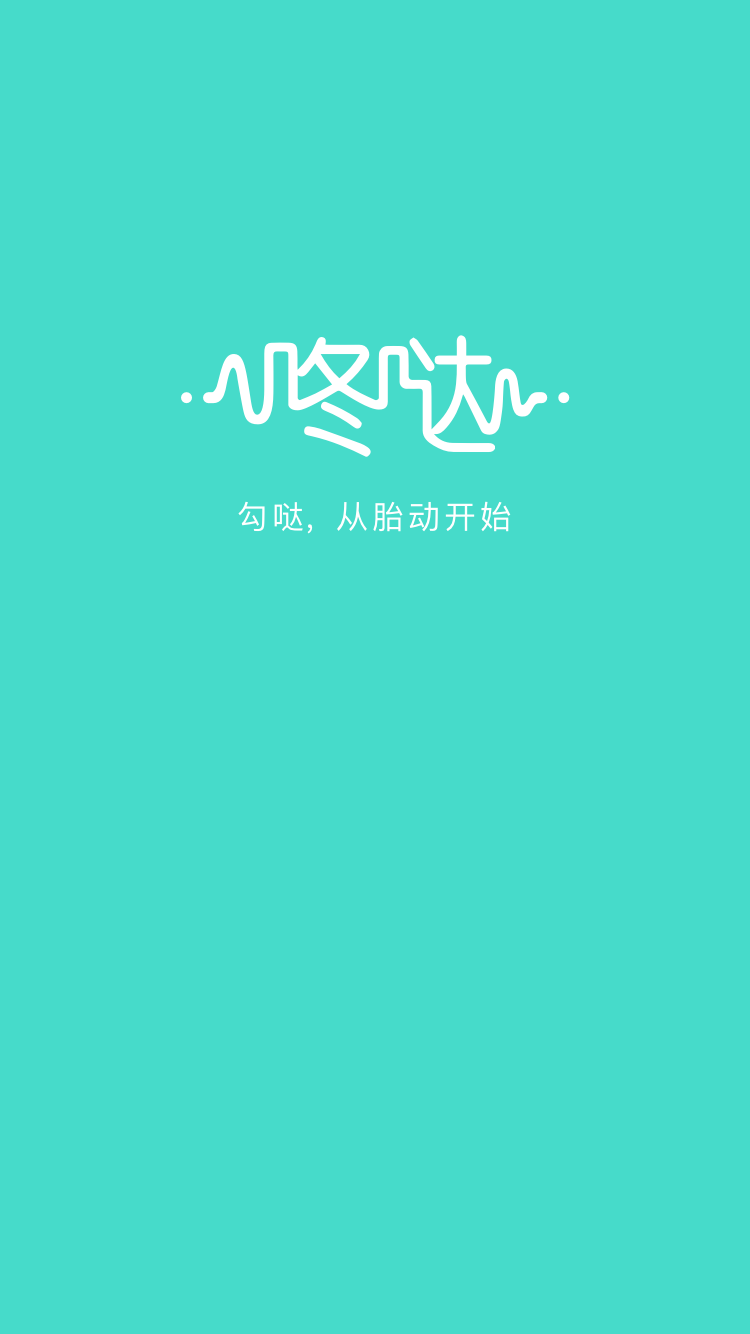
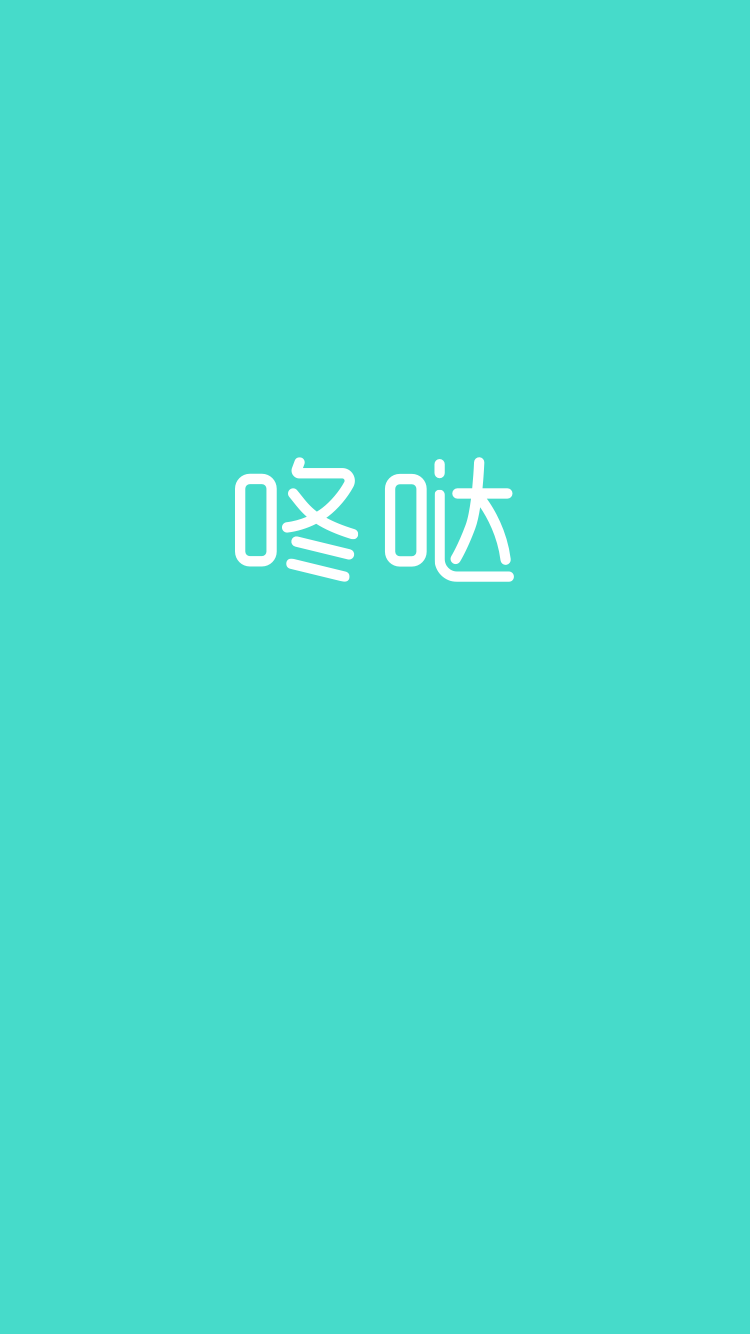
BUG: 667 首页角色名

Changed region(s): [[0.2453, 0.2459, 0.7667, 0.461]]

diff --git a/BabySharing/Controller/HomeController/HomeCell/AYHomeCellView.m b/BabySharing/Controller/HomeController/HomeCell/AYHomeCellView.m
@@ -31,13 +31,16 @@
 #import "AYThumbsAndPushDefines.h"
 
 #import "InsetsLabel.h"
+#import "OBShapedButton.h"
 
 @interface AYHomeCellView ()
 @property (nonatomic) NSInteger cell_index;
 
 @property (nonatomic, strong, readonly) UIImageView *ownerImage;
 @property (nonatomic, strong, readonly) UILabel *ownerNameLable;
-@property (nonatomic, strong, readonly) InsetsLabel *ownerRole;
+//@property (nonatomic, strong, readonly) InsetsLabel *ownerRole;
+@property (nonatomic, strong, readonly) UIButton *ownerRole;
+@property (nonatomic, strong, readonly) UILabel *ownerRoleLabel;
 @property (nonatomic, strong, readonly) UILabel *ownerDate;
 @property (nonatomic, strong, readonly) UIImageView *mainImage;
 @property (nonatomic, strong, readonly) UILabel *descriptionLabel;
@@ -108,18 +111,35 @@
     _ownerNameLable.textColor = TextColor;
     [self.contentView addSubview:_ownerNameLable];
     
-    _ownerRole = [[InsetsLabel alloc]init];
-    [_ownerRole setInsets:UIEdgeInsetsMake(2, 4, 2, 4)];
-    _ownerRole.text = @"";
-    _ownerRole.font = [UIFont systemFontOfSize:12];
-    _ownerRole.backgroundColor = [Tools colorWithRED:254.0 GREEN:192.0 BLUE:0.0 ALPHA:1.0];
-    _ownerRole.textAlignment = NSTextAlignmentCenter;
-    _ownerRole.layer.masksToBounds = YES;
-    _ownerRole.layer.cornerRadius = 3;
-    _ownerRole.layer.shouldRasterize = YES;
-    _ownerRole.layer.rasterizationScale = [UIScreen mainScreen].scale;
-    _ownerRole.textColor = [UIColor whiteColor];
+    
+    _ownerRole = [[UIButton alloc]init];
+//    [_ownerRole setInsets:UIEdgeInsetsMake(2, 4, 2, 4)];
+    _ownerRole.userInteractionEnabled = NO;
+//    UIImage *bg = PNGRESOURCE(@"login_role_bg");
+    UIImage *bg = [UIImage imageNamed:@"login_role_bg2"];
+//    NSInteger leftCapWidth = bg.size.width * 0.5f;
+//    NSInteger topCapHeight = bg.size.height * 0.5f;
+//    bg = [bg stretchableImageWithLeftCapWidth:leftCapWidth topCapHeight:topCapHeight];
+//    bg = [bg resizableImageWithCapInsets:UIEdgeInsetsMake(bg.size.width * 0.2, 0, bg.size.width * 0.3, bg.size.height) resizingMode:UIImageResizingModeStretch];
+    bg = [bg resizableImageWithCapInsets:UIEdgeInsetsMake(10, 15, 10, 10) resizingMode:UIImageResizingModeStretch];
+    [_ownerRole setBackgroundImage:bg forState:UIControlStateNormal];
+    
+//    _ownerRole.text = @"";
+//    _ownerRole.layer.masksToBounds = YES;
+//    _ownerRole.layer.cornerRadius = 3;
+//    _ownerRole.layer.shouldRasterize = YES;
+//    _ownerRole.layer.rasterizationScale = [UIScreen mainScreen].scale;
+//    _ownerRoleLabel.backgroundColor = [Tools colorWithRED:254.0 GREEN:192.0 BLUE:0.0 ALPHA:1.0];
+//    _ownerRoleLabel.textAlignment = NSTextAlignmentCenter;
+    
     [self.contentView addSubview:_ownerRole];
+    
+    _ownerRoleLabel = [[UILabel alloc]init];
+    _ownerRoleLabel.textColor = [UIColor whiteColor];
+    _ownerRoleLabel.font = [UIFont systemFontOfSize:12];
+    
+    [_ownerRole addSubview:_ownerRoleLabel];
+    
     
     _ownerDate = [[UILabel alloc] init];
     _ownerDate.font = [UIFont systemFontOfSize:11];
@@ -137,7 +157,6 @@
     [self.contentView addSubview:_descriptionLabel];
    
     // 中间的一条线
-//        lineView = [CALayer layer];
     lineView = [[UIView alloc]init];
     [self.contentView addSubview:lineView];
     lineView.backgroundColor = [Tools colorWithRED:231.0 GREEN:231.0 BLUE:231.0 ALPHA:1.0];
@@ -234,7 +253,10 @@
         make.right.equalTo(self.contentView).offset(-10);
     }];
     
-    [_ownerRole sizeToFit];
+    CGSize sz = [Tools sizeWithString:_ownerRoleLabel.text withFont:[UIFont systemFontOfSize:12.f] andMaxSize:CGSizeMake(FLT_MAX, FLT_MAX)];
+//    _ownerRole.frame = CGRectMake(CGRectGetMaxX(_ownerNameLable.frame) + 10, CGRectGetMidY(_ownerImage.frame)- (sz.height + 8)*0.5, sz.width + 12, sz.height + 4);
+    
+//    [_ownerRole sizeToFit];
 //    [_ownerRole mas_makeConstraints:^(MASConstraintMaker *make) {
 //        make.centerY.equalTo(_ownerImage);
 //        make.left.equalTo(_ownerNameLable.mas_right).offset(10);
@@ -250,16 +272,9 @@
 //    }
     
     CGFloat name_w = CGRectGetWidth(_ownerNameLable.frame);
-    CGFloat role_w = CGRectGetWidth(_ownerRole.frame);
+//    CGFloat role_w = CGRectGetWidth(_ownerRole.frame);
+    CGFloat role_w = sz.width + 12;
 //    CGFloat date_w = CGRectGetWidth(_ownerDate.frame);
-    
-//    if ((32 + name_w + role_w +8+8+10+50) > self.frame.size.width) {
-//        NSLog(@"-- %f",image_w + name_w + role_w + date_w +8+8+10+10+10);
-//        NSLog(@"-- %f",self.frame.size.width);
-//        [self updateConstraints];
-//        
-//    }
-    
     
     if ((32 + name_w + role_w +10+10.5+10+80) > self.frame.size.width) {
         
@@ -274,16 +289,24 @@
         
         if (_ownerRole.bounds.size.width < min_role_limit) {
             _ownerNameLable.frame = CGRectMake(_ownerNameLable.frame.origin.x, _ownerNameLable.frame.origin.y, name_afterLimit, _ownerNameLable.bounds.size.height);
-            _ownerRole.frame = CGRectMake(CGRectGetMaxX(_ownerNameLable.frame) , CGRectGetMidY(_ownerNameLable.frame)-_ownerRole.bounds.size.height*0.5 - 2, _ownerRole.bounds.size.width+8, _ownerRole.bounds.size.height+4 );
+            _ownerRole.frame = CGRectMake(CGRectGetMaxX(_ownerNameLable.frame) , CGRectGetMidY(_ownerNameLable.frame)-10, sz.width+14, 20 );
         }else{
             
             _ownerNameLable.frame = CGRectMake(_ownerNameLable.frame.origin.x, _ownerNameLable.frame.origin.y, _ownerNameLable.bounds.size.width - overMore, _ownerNameLable.bounds.size.height);
-            _ownerRole.frame = CGRectMake(CGRectGetMaxX(_ownerNameLable.frame) , CGRectGetMidY(_ownerNameLable.frame)-_ownerRole.bounds.size.height*0.5 - 2, min_role_limit, _ownerRole.bounds.size.height +4);
+            _ownerRole.frame = CGRectMake(CGRectGetMaxX(_ownerNameLable.frame) , CGRectGetMidY(_ownerNameLable.frame)-10, min_role_limit, 20);
             
         }
     }else
-        _ownerRole.frame = CGRectMake(CGRectGetMaxX(_ownerNameLable.frame) + 10, CGRectGetMidY(_ownerNameLable.frame)-_ownerRole.bounds.size.height*0.5 - 2, _ownerRole.bounds.size.width + 8, _ownerRole.bounds.size.height + 4);
+        _ownerRole.frame = CGRectMake(CGRectGetMaxX(_ownerNameLable.frame) + 10, CGRectGetMidY(_ownerNameLable.frame)-10, sz.width + 14, 20);
 
+    
+//    _ownerRoleLabel.frame = CGRectMake(10, 2, sz.width, sz.height);
+    [_ownerRoleLabel mas_makeConstraints:^(MASConstraintMaker *make) {
+        make.centerY.equalTo(_ownerRole);
+        make.left.equalTo(_ownerRole).offset(10);
+        make.right.equalTo(_ownerRole).offset(4);
+    }];
+    
     [_mainImage mas_makeConstraints:^(MASConstraintMaker *make) {
         make.top.equalTo(_ownerImage.mas_bottom).offset(8);
         make.left.equalTo(self.contentView);
@@ -443,7 +466,7 @@
     
     self.ownerNameLable.text = content.owner_name;
     self.descriptionLabel.text = content.content_description;
-    self.ownerRole.text = content.owner_role;
+    self.ownerRoleLabel.text = content.owner_role;
     self.ownerDate.text = [Tools compareCurrentTime:content.content_post_date];
     if ((unsigned long)self.content.chaters.count > 3) {
         NSLog(@"MonkeyHengLog: %lu === %d, %@", (unsigned long)self.content.chaters.count, self.content.group_chat_count.intValue, self.content.content_post_id);

diff --git a/BabySharing/Controller/ProfileController/ProfilePushCell/AYProfilePushCellView.m b/BabySharing/Controller/ProfileController/ProfilePushCell/AYProfilePushCellView.m
@@ -11,6 +11,7 @@
 #import "Notifications.h"
 #import "Tools.h"
 
+#import "AYViewController.h"
 #import "AYCommandDefines.h"
 #import "AYFactoryManager.h"
 #import "AYResourceManager.h"
@@ -28,7 +29,8 @@
 @property (weak, nonatomic) IBOutlet UILabel *timeLabel;
 @property (weak, nonatomic) IBOutlet UILabel *fromTitle;
 
-@property(strong, nonatomic) UIImage *photoimg;
+@property(strong, nonatomic) NSString *photoimg;
+
 @end
 
 @implementation AYProfilePushCellView
@@ -53,6 +55,10 @@
 //    line.borderWidth = 1.f;
 //    line.frame = CGRectMake(10.5, 80 - 1, [UIScreen mainScreen].bounds.size.width - 10.5 * 2, 1);
 //    [self.layer addSublayer:line];
+    
+    _fromLabel.userInteractionEnabled = YES;
+    UITapGestureRecognizer *tap = [[UITapGestureRecognizer alloc]initWithTarget:self action:@selector(fromPersonProfile:)];
+    [_fromLabel addGestureRecognizer:tap];
     
     [self setUpReuseCell];
 }
@@ -135,15 +141,14 @@
     
     NSDate* content_post_date = [dic objectForKey:@"content_post_date"];
     [self setTimeLabelWithDate:content_post_date];
-
+    
+    _photoimg = [dic objectForKey:@"owner_id"];
+    
     return nil;
 }
 
 -(void)setPhotoImageWithString:(NSString*)photo_name{
 
-//    NSString * bundlePath = [[ NSBundle mainBundle] pathForResource: @"DongDaBoundle" ofType :@"bundle"];
-//    NSBundle *resourceBundle = [NSBundle bundleWithPath:bundlePath];
-//    NSString * filePath = [resourceBundle pathForResource:[NSString stringWithFormat:@"relase_imge_default"] ofType:@"png"];
     [_photoImage setImage:PNGRESOURCE(@"relase_imge_default")];
     
     id<AYFacadeBase> f = DEFAULTFACADE(@"FileRemote");
@@ -196,6 +201,21 @@
     _timeLabel.text = result;
 }
 
+-(void)fromPersonProfile:(UIGestureRecognizer*)tap{
+    
+    AYViewController* des = DEFAULTCONTROLLER(@"Profile");
+    
+    NSMutableDictionary* dic_push = [[NSMutableDictionary alloc]init];
+    [dic_push setValue:kAYControllerActionPushValue forKey:kAYControllerActionKey];
+    [dic_push setValue:des forKey:kAYControllerActionDestinationControllerKey];
+    [dic_push setValue:_controller forKey:kAYControllerActionSourceControllerKey];
+    [dic_push setValue:_photoimg forKey:kAYControllerChangeArgsKey];
+    
+    id<AYCommand> cmd = PUSH;
+    [cmd performWithResult:&dic_push];
+}
+
+//michauxs:cell点击取消高亮状态
 -(void)setSelected:(BOOL)selected animated:(BOOL)animated {
     
 }

diff --git a/BabySharing/lib/Tools/Tools.m b/BabySharing/lib/Tools/Tools.m
@@ -343,24 +343,22 @@
 
 // 获取字体size
 + (CGSize)sizeWithString:(NSString*)str withFont:(UIFont*)font andMaxSize:(CGSize)sz {
-//    NSMutableParagraphStyle *paragraphStyle = [[NSMutableParagraphStyle alloc]init];
-//    paragraphStyle.lineBreakMode = NSLineBreakByWordWrapping;
-//    NSDictionary *attributes = @{NSFontAttributeName:font, NSParagraphStyleAttributeName:paragraphStyle.copy};
-//    
-//    return [str boundingRectWithSize:sz options:NSStringDrawingUsesLineFragmentOrigin attributes:attributes context:nil].size;
-    
-    NSLayoutManager* m = [[NSLayoutManager alloc]init];
-    NSTextStorage* st = [[NSTextStorage alloc]initWithString:str];
-    NSTextContainer* con = [[NSTextContainer alloc]initWithSize:CGSizeMake(FLT_MAX, FLT_MAX)];
-    
-    [m addTextContainer:con];
-    [st addLayoutManager:m];
-    
-    [st addAttribute:NSFontAttributeName value:font range:NSMakeRange(0, st.length)];
-    con.lineFragmentPadding = 0;
-//    con.lineBreakMode = NSLineBreakByWordWrapping;
-    con.lineBreakMode = NSLineBreakByCharWrapping;
-    return [m usedRectForTextContainer:con].size;
+    if (str) {
+        NSLayoutManager* m = [[NSLayoutManager alloc]init];
+        NSTextStorage* st = [[NSTextStorage alloc]initWithString:str];
+        NSTextContainer* con = [[NSTextContainer alloc]initWithSize:CGSizeMake(FLT_MAX, FLT_MAX)];
+        
+        [m addTextContainer:con];
+        [st addLayoutManager:m];
+        
+        [st addAttribute:NSFontAttributeName value:font range:NSMakeRange(0, st.length)];
+        con.lineFragmentPadding = 0;
+        //    con.lineBreakMode = NSLineBreakByWordWrapping;
+        con.lineBreakMode = NSLineBreakByCharWrapping;
+        return [m usedRectForTextContainer:con].size;
+    } else {
+        return CGSizeMake(0.f, 0.f);
+    }
 }
 
 

diff --git a/BabySharing/Controller/PublishController/AYPostPublishController.m b/BabySharing/Controller/PublishController/AYPostPublishController.m
@@ -236,7 +236,7 @@
     diff = self.view.frame.size.height - maxY - step.floatValue;
     
     [UIView animateWithDuration:0.3 animations:^{
-        container.center = CGPointMake(container.center.x, container.center.y - fabsf(diff));
+        container.center = CGPointMake(container.center.x, container.center.y - fabs(diff));
     }];
 }
 
@@ -251,7 +251,7 @@
     
     isUpAnimation = !isUpAnimation;
     [UIView animateWithDuration:0.3 animations:^{
-        container.center = CGPointMake(container.center.x, container.center.y + fabsf(diff));
+        container.center = CGPointMake(container.center.x, container.center.y + fabs(diff));
     }];
 }
 

diff --git a/BabySharing/Controller/HomeController/AYHomeController.m b/BabySharing/Controller/HomeController/AYHomeController.m
@@ -234,7 +234,7 @@ CGRect rc = CGRectMake(0, 0, screen_width, screen_height);
 
 - (id)ImageLayout:(UIView*)view {
     
-    view.frame = CGRectMake(0, 0, 70, 22);
+    view.frame = CGRectMake(0, 0, 48.5, 22);
     ((UIImageView*)view).image = PNGRESOURCE(@"home_title_logo");
     view.center = CGPointMake([UIScreen mainScreen].bounds.size.width / 2, 44 / 2);
     view.hidden = YES;

diff --git a/BabySharing/Controller/ProfileController/ProfileTableView/AYProfilePushDelegate.m b/BabySharing/Controller/ProfileController/ProfileTableView/AYProfilePushDelegate.m
@@ -124,6 +124,7 @@
         [dict setObject:item.owner_name forKey:@"owner_name"];
         [dict setObject:item.content_description forKey:@"content_description"];
         [dict setObject:item.content_post_date forKey:@"content_post_date"];
+        [dict setObject:item.owner_id forKey:@"owner_id"];
         
         [tempArr addObject:dict];
     }

diff --git a/BabySharing/Controller/LandingController/AYLandingController.m b/BabySharing/Controller/LandingController/AYLandingController.m
@@ -121,6 +121,7 @@ static NSString* const kAYLandingControllerRegisterResultKey = @"RegisterResult"
         make.centerX.equalTo(self.view);
         make.size.mas_equalTo(CGSizeMake(163, 73));
     }];
+    title.hidden = YES;
     
     phoneNoLogin = [[UIView alloc]init];
     [self.view addSubview:phoneNoLogin];
